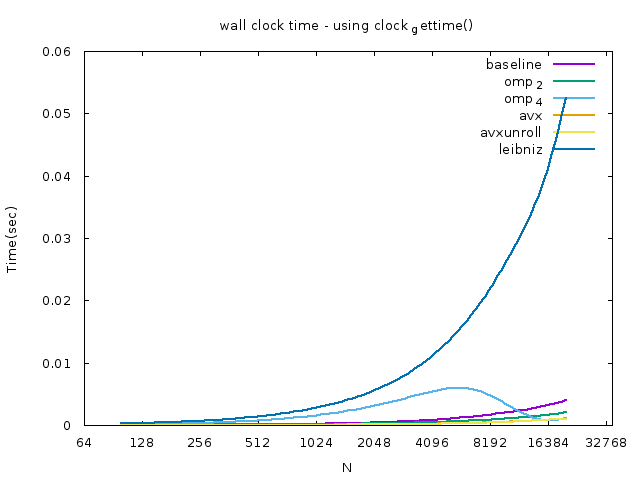
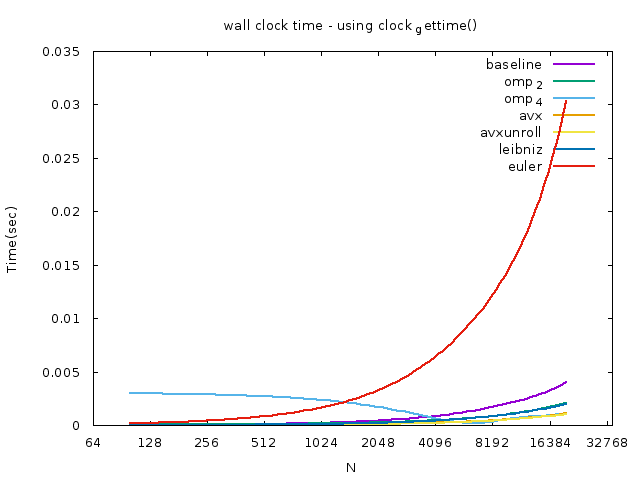
add compute_pi_euler() and edit related files

diff --git a/benchmark_clock_gettime.c b/benchmark_clock_gettime.c
@@ -71,8 +71,18 @@ int main(int argc, char const *argv[])
         compute_pi_leibniz(N);
     }
     clock_gettime(CLOCK_ID, &end);
+    printf("%lf,", (double) (end.tv_sec - start.tv_sec) +
+           (end.tv_nsec - start.tv_nsec)/ONE_SEC);
+
+    //euler
+    clock_gettime(CLOCK_ID, &start);
+    for(i = 0; i < loop; i++) {
+        compute_pi_euler(N);
+    }
+    clock_gettime(CLOCK_ID, &end);
     printf("%lf\n", (double) (end.tv_sec - start.tv_sec) +
            (end.tv_nsec - start.tv_nsec)/ONE_SEC);
+
 
 
     return 0;

diff --git a/computepi.c b/computepi.c
@@ -124,6 +124,18 @@ double compute_pi_leibniz(size_t N)
 {
     double pi = 0.0;
     for(int i=0; i<N; i++)
-        pi += pow(-1,i) / (2*i+1);
+    {
+        int numerator = (i % 2 == 0 ? 1 : -1);
+        pi += numerator / (double)(2*i+1);
+    }
     return pi * 4.0;
+}
+
+double compute_pi_euler(size_t N)
+{
+    double pi = 0.0;
+    for(int i=0; i<N; i++)
+        pi += (double)(1 / pow(i, 2));
+    pi *= 6;
+    return sqrt(pi);
 }

diff --git a/time_test.c b/time_test.c
@@ -30,6 +30,10 @@ int main(int argc, char const *argv[])
     pi = compute_pi_leibniz(N);
 #endif
 
+#if defined(EULER)
+    pi = compute_pi_euler(N);
+#endif
+
     printf("N = %d , pi = %lf\n", N, pi);
     return 0;
 }

diff --git a/computepi.h b/computepi.h
@@ -5,4 +5,5 @@ double compute_pi_openmp(size_t N, int threads);
 double compute_pi_avx(size_t N);
 double compute_pi_avx_unroll(size_t N);
 double compute_pi_leibniz(size_t N);
+double compute_pi_euler(size_t N);
 
